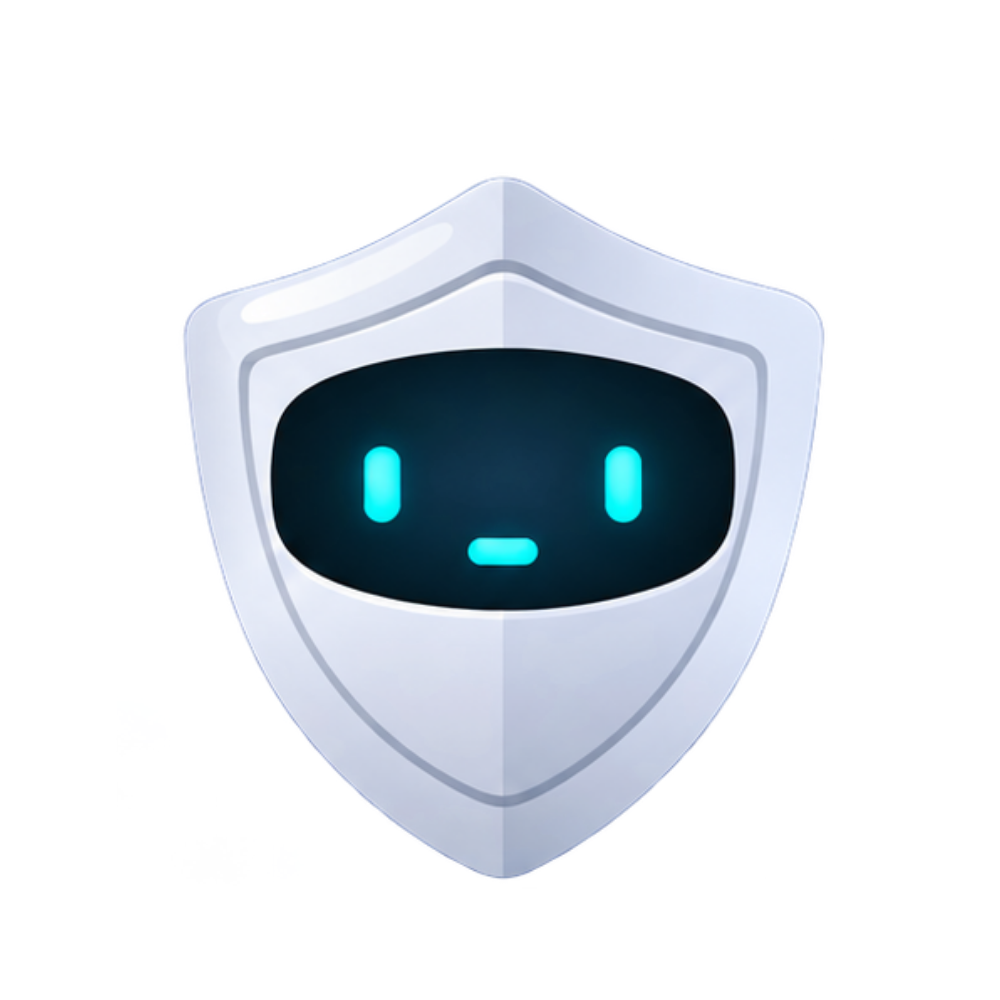
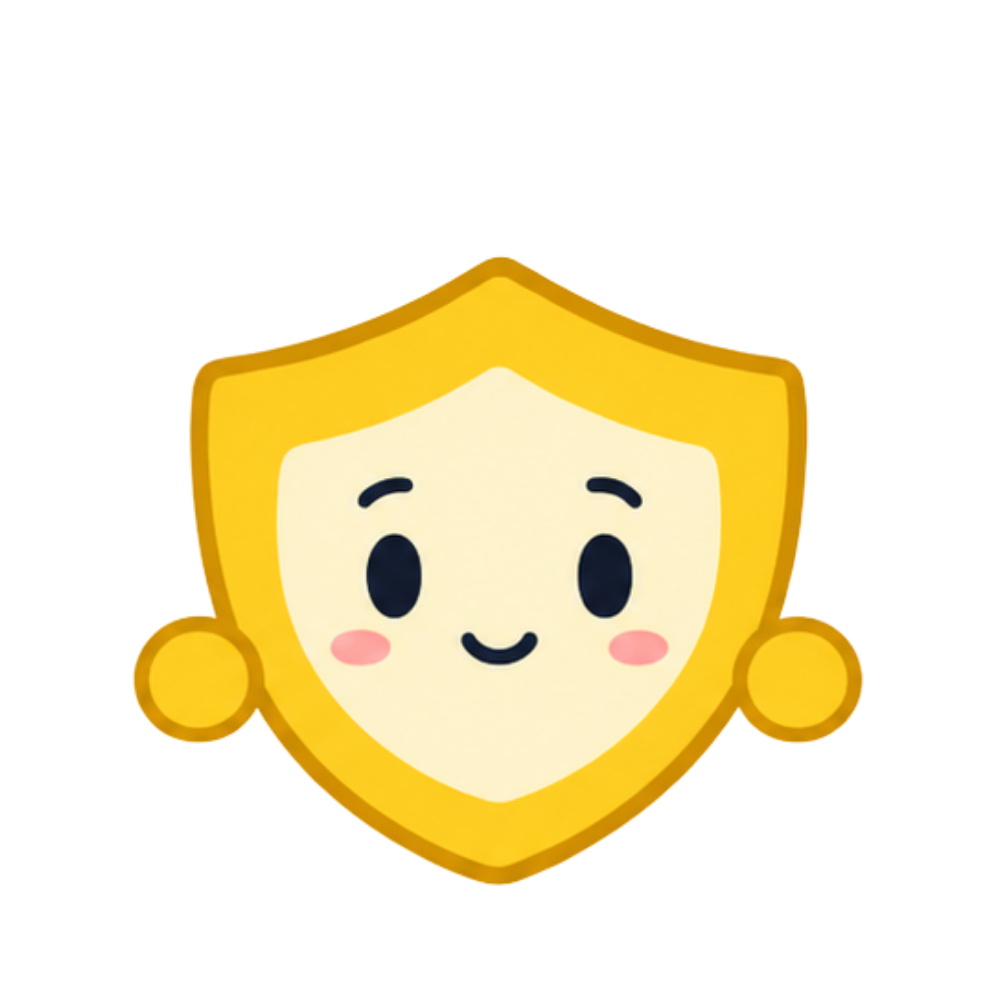
New Shield Buddy: a friendly yellow shield with a face and hands
Same six moods and file names, so it shows everywhere Buddy appears.

diff --git a/PROJECT.md b/PROJECT.md
@@ -177,7 +177,7 @@ To do (mostly when it becomes an app):
 - [ ] Bright, friendly style with big buttons and large text (see "Look and feel" in `README.md`)
 - [ ] Colours for the outcomes and the Stop, Check, Tell steps (the wireframe has soft placeholder tints)
 - [ ] In the recap the phone is a little smaller, so the notification's phone number gets cut off on tablets
-- [ ] Shrink large images: Buddy's (each a 1000×1000 PNG of about 360 KB) and `public/images/robux-avatar.png` (about 520 KB), all shown much smaller
+- [ ] Shrink large images: Buddy's (each a 1000×1000 PNG of about 300 KB) and `public/images/robux-avatar.png` (about 520 KB), all shown much smaller
 
 ## 4. Tests and checks
 
